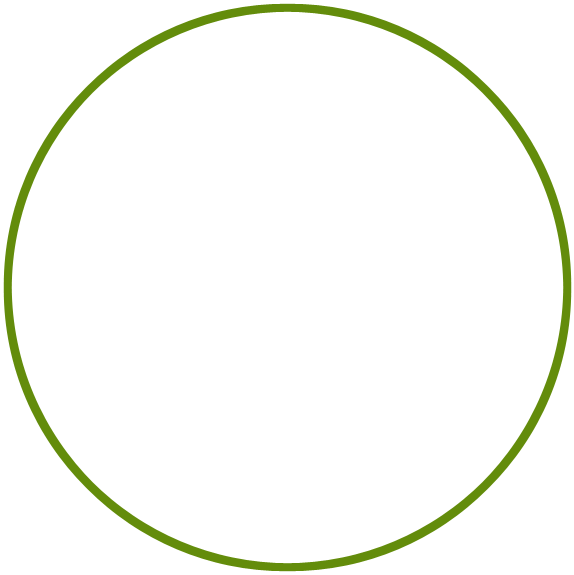
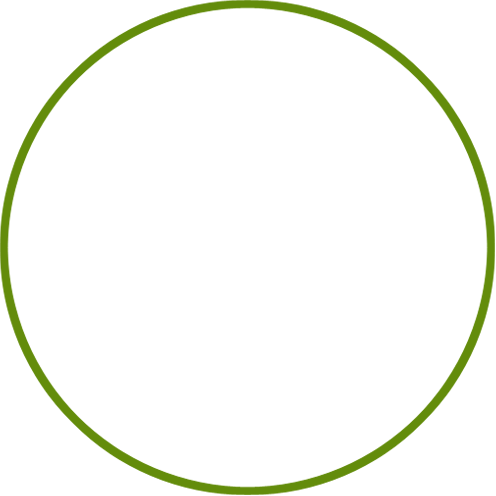
兼容ie

diff --git a/work/airfront/WebContent/default/style/main.css b/work/airfront/WebContent/default/style/main.css
@@ -297,8 +297,7 @@ img.pgymove{
 	-o-transition:all 10s;
 }
 
-
-.Circlebody{ position:relative; border:8px solid #638c0b;border-radius:300px; width:300px; height:300px; margin:auto; padding:90px;}
+.Circlebody{ position:relative; background:url(images/022.png); width:496px; height:496px; margin:50px auto;}
 .Circleimg{ position:absolute;}
 .Circleimg:hover{
 	transform:scale(1.1);
@@ -320,9 +319,10 @@ img.pgymove{
 .proimg6{ left:-5px; bottom:20px;width:80px;}
 .proimg7{ left:-70px; top:200px;width:92px;}
 .proimg8{ left:4px; top:0;width:65px;}
-.Circlebinfo{ position:relative;border:6px solid #638c0b;border-radius:284px; width:284px; height:284px; text-align:center; color:#FFF; font-size:18px;}
-.Circlebinfo ul li{ background:#00a0e9; position:absolute; width:81px; height:81px;border-radius:81px; text-align:center; line-height:81px;}
-.Circlebinfo ul li:hover{ background:#DAA520;}
+.Circlebinfo{ position:relative;background:url(images/023.png) center no-repeat;; width:296px; height:296px;text-align:center; color:#FFF; font-size:18px;}
+.Circlebinfo ul li{background: url(images/01.png) no-repeat 0 0;width:81px;height:81px;position:absolute; text-align:center;}
+.Circlebinfo ul li:hover{ background: url(images/01.png) no-repeat 0 -81px;}
+.Circlebinfo span{line-height:81px;}
 .txt1{ left:97px; top:-50px;}
 .txt2{ right:5px; top:-2px;}
 .txt3{ right:-51px; top:100px;}
@@ -334,30 +334,7 @@ img.pgymove{
 .Circlebinfo dl{ padding:103px 0 0 0; } 
 .Circlebinfo dd{ margin:-13px 0 0 0;}
 .Circlebinfo .centerimg{width:163px;margin-top:-20px;}
-@media screen and (min-width: 2000px) {
-.Circlebody{ position:relative; border:8px solid #638c0b;border-radius:664px; width:420px; height:420px; margin:auto; padding:124px;}
-.Circleimg{ position:absolute;}
-.proimg1{ left:303px; top:-89px;}
-.proimg2{ right:-2px; top:41px;}
-.proimg3{ right:-103px; top:273px;}
-.proimg4{ right:17px; bottom:37px;}
-.proimg5{ left:321px; bottom:-65px;}
-.proimg6{ left:-5px; bottom:10px;}
-.proimg7{ left:-120px; top:264px;}
-.proimg8{ left:-24px; top:-29px;}
-.Circlebinfo{ position:relative;border:6px solid #638c0b;border-radius:404px; width:404px; height:404px; text-align:center; color:#FFF; font-size:18px;}
-.Circlebinfo ul li{ background:#00a0e9; position:absolute; width:121px; height:121px;border-radius:121px; text-align:center; line-height:121px;}
-.txt1{ left:157px; top:-60px;}
-.txt2{ right:5px; top:3px;}
-.txt3{ right:-51px; top:144px;}
-.txt4{ right:7px; bottom:9px;}
-.txt5{ left:147px; bottom:-52px;}
-.txt6{ left:3px; bottom:4px;}
-.txt7{ left:-59px; top:144px;}
-.txt8{ left:0; top:-2px;}
-.Circlebinfo dl{ padding:103px 0 0 0; } 
-.Circlebinfo dd{ margin:-13px 0 0 0;}
-}
+
 /* .active h3{
 	transform:scale(1,1);
 	-ms-transform:scale(1,1); 	IE 9
